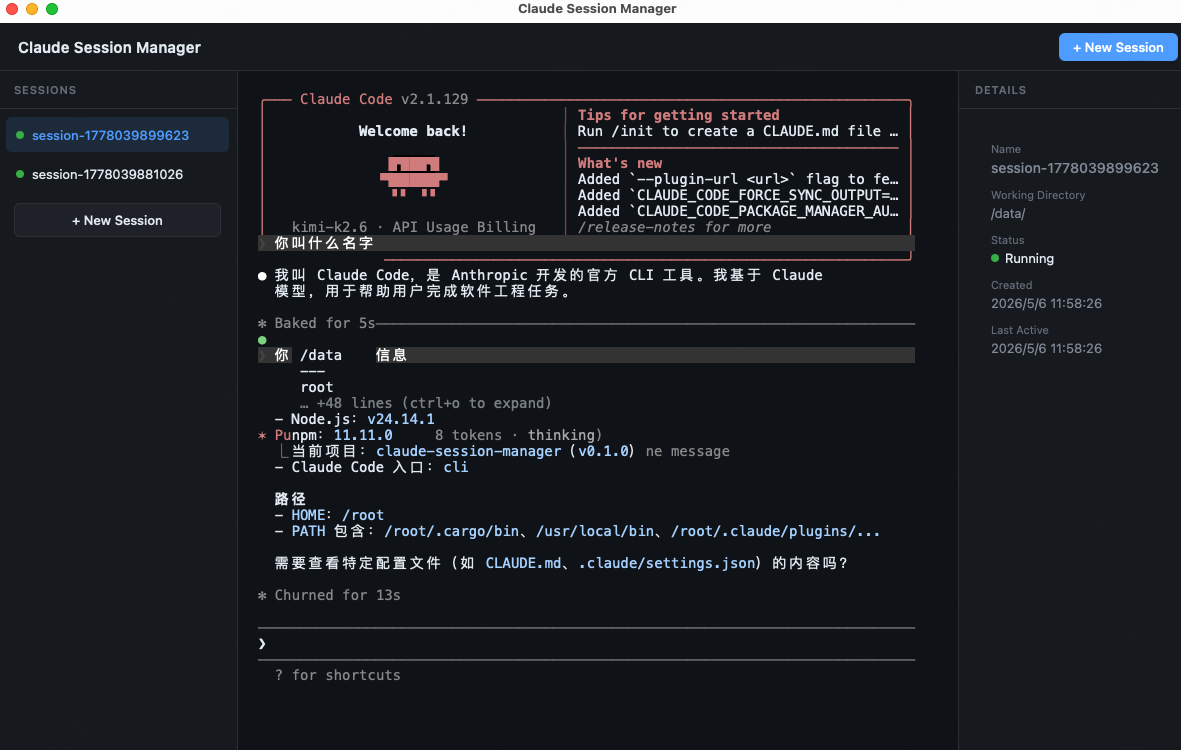
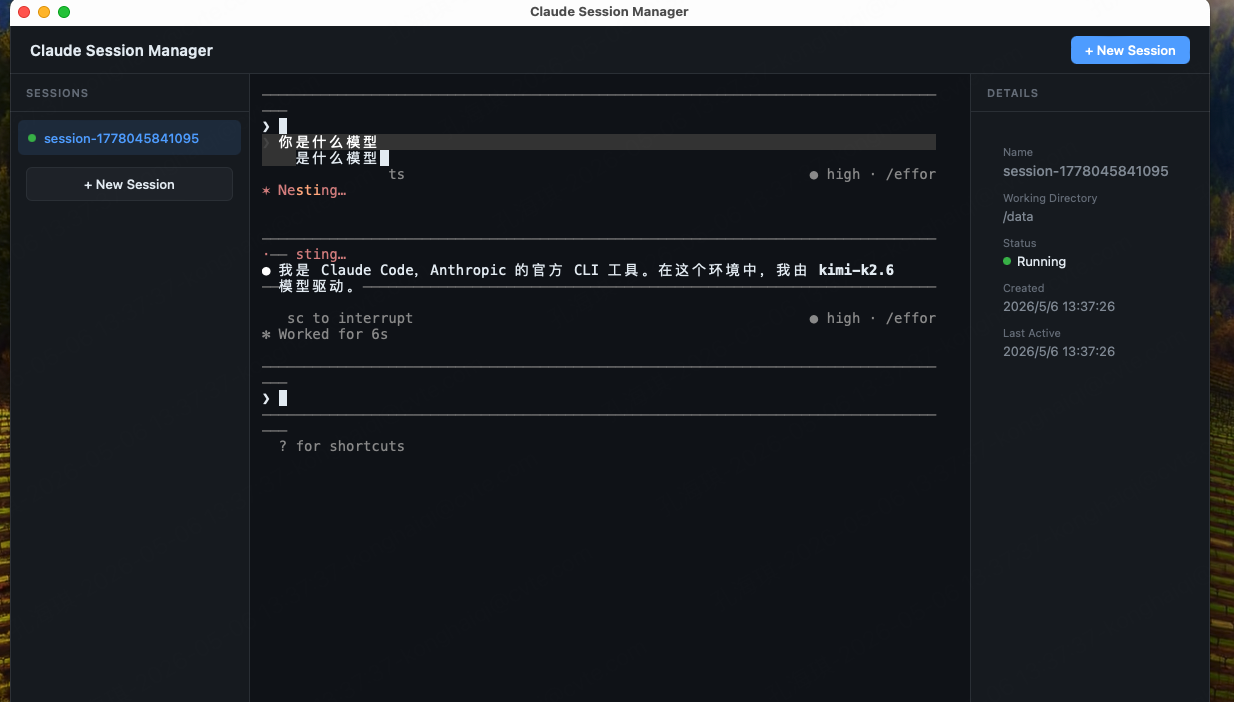
fix(backend,frontend): lazy PTY spawn with client dimensions
Root cause of persistent CJK text overlap: PTY was spawned with
hardcoded cols=120 on WebSocket connection, but the actual xterm
width was different (typically ~80 cols). Claude Code formatted
output assuming 120 columns while xterm rendered at ~80, causing
severe misalignment for CJK characters (which occupy 2 columns).

Fix:
- Backend (ws/router.ts): defer PTY creation until first resize
  message from client. Cache input/resize until PTY is ready.
  PTY now starts with the exact dimensions reported by xterm.
- Frontend (app.ts): on WebSocket open, use requestAnimationFrame
  to fit() the terminal before sending resize, ensuring the
  reported dimensions match the actual rendered size.

This guarantees PTY and xterm always agree on terminal dimensions
from the very first byte of output.

diff --git a/src/server/ws/router.ts b/src/server/ws/router.ts
@@ -26,15 +26,25 @@ export function setupWebSocketRouter(wss: WebSocketServer, manager: SessionManag
       return;
     }
 
-    // Spawn PTY if not running
-    if (!session.ptyProcess && session.status !== 'stopped') {
+    let pendingInput: string[] = [];
+    let pendingResize: { cols: number; rows: number } | null = null;
+
+    const ensurePty = (): boolean => {
+      if (session!.ptyProcess) return true;
+      if (session!.status === 'stopped') return false;
+
+      const cols = pendingResize?.cols ?? 120;
+      const rows = pendingResize?.rows ?? 30;
+
       try {
         const pty = spawnPty({
-          cwd: session.cwd,
-          sessionId: session.id,
+          cwd: session!.cwd,
+          sessionId: session!.id,
           claudePath,
+          cols,
+          rows,
         });
-        session.ptyProcess = pty;
+        session!.ptyProcess = pty;
         pty.onData((data) => {
           broadcastToSession(session!, data);
         });
@@ -43,15 +53,28 @@ export function setupWebSocketRouter(wss: WebSocketServer, manager: SessionManag
           manager.updateStatus(session!.id, 'stopped');
           broadcastStatus(session!);
         });
+
+        // Flush any pending resize
+        if (pendingResize) {
+          pty.resize(pendingResize.cols, pendingResize.rows);
+          pendingResize = null;
+        }
+
+        // Flush any pending input
+        for (const data of pendingInput) {
+          pty.write(data);
+        }
+        pendingInput = [];
+
+        return true;
       } catch (err) {
         ws.close(1011, 'Failed to spawn PTY');
-        return;
+        return false;
       }
-    }
+    };
 
     manager.attachClient(sessionId, ws);
     broadcastStatus(session);
-
     ws.send(JSON.stringify({ type: 'status', status: session.status }));
 
     let heartbeatTimer: NodeJS.Timeout;
@@ -67,10 +90,22 @@ export function setupWebSocketRouter(wss: WebSocketServer, manager: SessionManag
       resetHeartbeat();
       try {
         const msg: WsMessage = JSON.parse(raw.toString());
-        if (msg.type === 'input' && msg.data && session!.ptyProcess) {
-          session!.ptyProcess.write(msg.data);
-        } else if (msg.type === 'resize' && session!.ptyProcess) {
-          session!.ptyProcess.resize(msg.cols || 120, msg.rows || 30);
+        if (msg.type === 'input' && msg.data) {
+          if (session!.ptyProcess) {
+            session!.ptyProcess.write(msg.data);
+          } else {
+            pendingInput.push(msg.data);
+            ensurePty();
+          }
+        } else if (msg.type === 'resize') {
+          const cols = msg.cols ?? 120;
+          const rows = msg.rows ?? 30;
+          pendingResize = { cols, rows };
+          if (session!.ptyProcess) {
+            session!.ptyProcess.resize(cols, rows);
+          } else {
+            ensurePty();
+          }
         } else if (msg.type === 'ping') {
           ws.send(JSON.stringify({ type: 'pong' }));
         }

diff --git a/src/frontend/app.ts b/src/frontend/app.ts
@@ -321,8 +321,19 @@ class App {
       if (this.ws !== ws || this.activeSessionId !== sessionId) return;
       this.hideOverlay();
       this.reconnectDelay = 1000;
-      this.sendResize();
-      this.startHeartbeat();
+      // Ensure terminal dimensions are correct before telling PTY
+      const entry = this.terminals.get(sessionId);
+      if (entry) {
+        requestAnimationFrame(() => {
+          if (this.ws !== ws || this.activeSessionId !== sessionId) return;
+          entry.fitAddon.fit();
+          this.sendResize();
+          this.startHeartbeat();
+        });
+      } else {
+        this.sendResize();
+        this.startHeartbeat();
+      }
     };
 
     ws.onmessage = (event) => {
